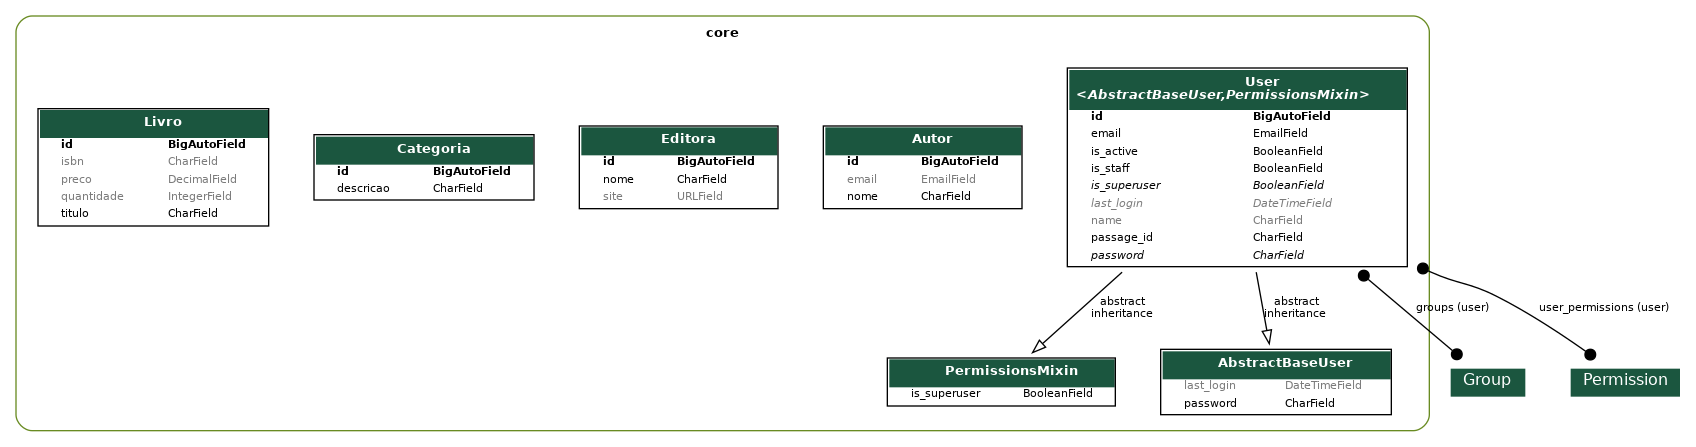
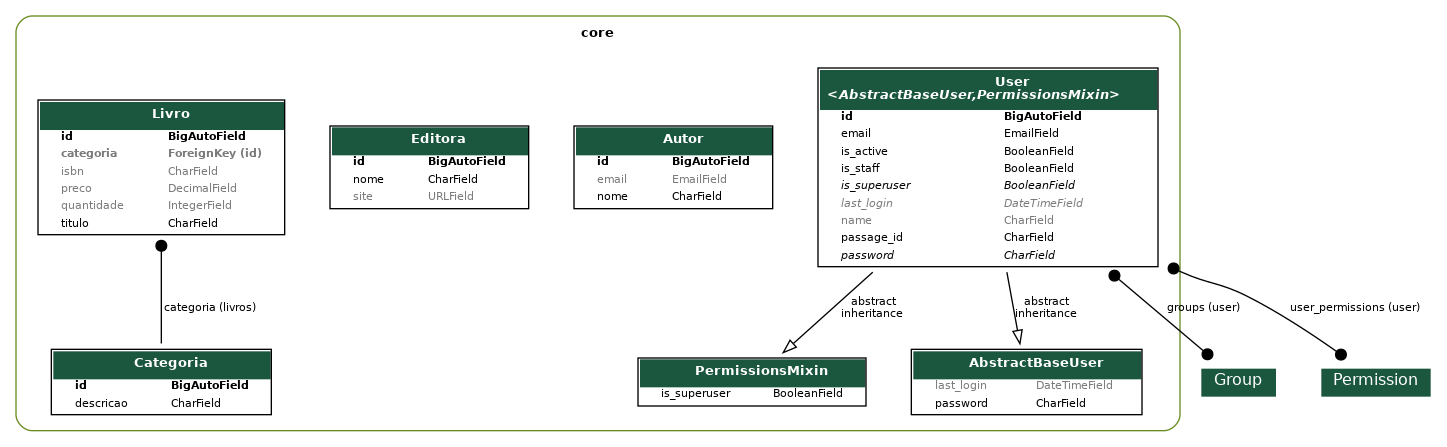
feat: inclusão do relacionamento de Livro com Categoria e Editora:10.0 do tutorial

diff --git a/core/models/livro.py b/core/models/livro.py
@@ -1,10 +1,15 @@
+
 from  django.db import models
+from .categoria import Categoria
 
 class Livro(models.Model):
     titulo = models.CharField(max_length=255)
     isbn = models.CharField(max_length=32, null=True, blank=True)
     quantidade = models.IntegerField(default=0,  null=True, blank=True)
     preco = models.DecimalField(max_digits=7, decimal_places=2, default=0, null=True, blank=True)
+    categoria = models.ForeignKey(
+        Categoria, on_delete=models.PROTECT, related_name="livros", null=True, blank=True
+    )
 
     def __str__(self):
         return f"({self.id}) {self.titulo} ({self.quantidade})"

diff --git a/core/migrations/0011_livro_categoria.py b/core/migrations/0011_livro_categoria.py
@@ -1,0 +1,19 @@
+# Generated by Django 5.1.7 on 2025-04-15 11:37
+
+import django.db.models.deletion
+from django.db import migrations, models
+
+
+class Migration(migrations.Migration):
+
+    dependencies = [
+        ('core', '0010_livro'),
+    ]
+
+    operations = [
+        migrations.AddField(
+            model_name='livro',
+            name='categoria',
+            field=models.ForeignKey(blank=True, null=True, on_delete=django.db.models.deletion.PROTECT, related_name='livros', to='core.categoria'),
+        ),
+    ]
